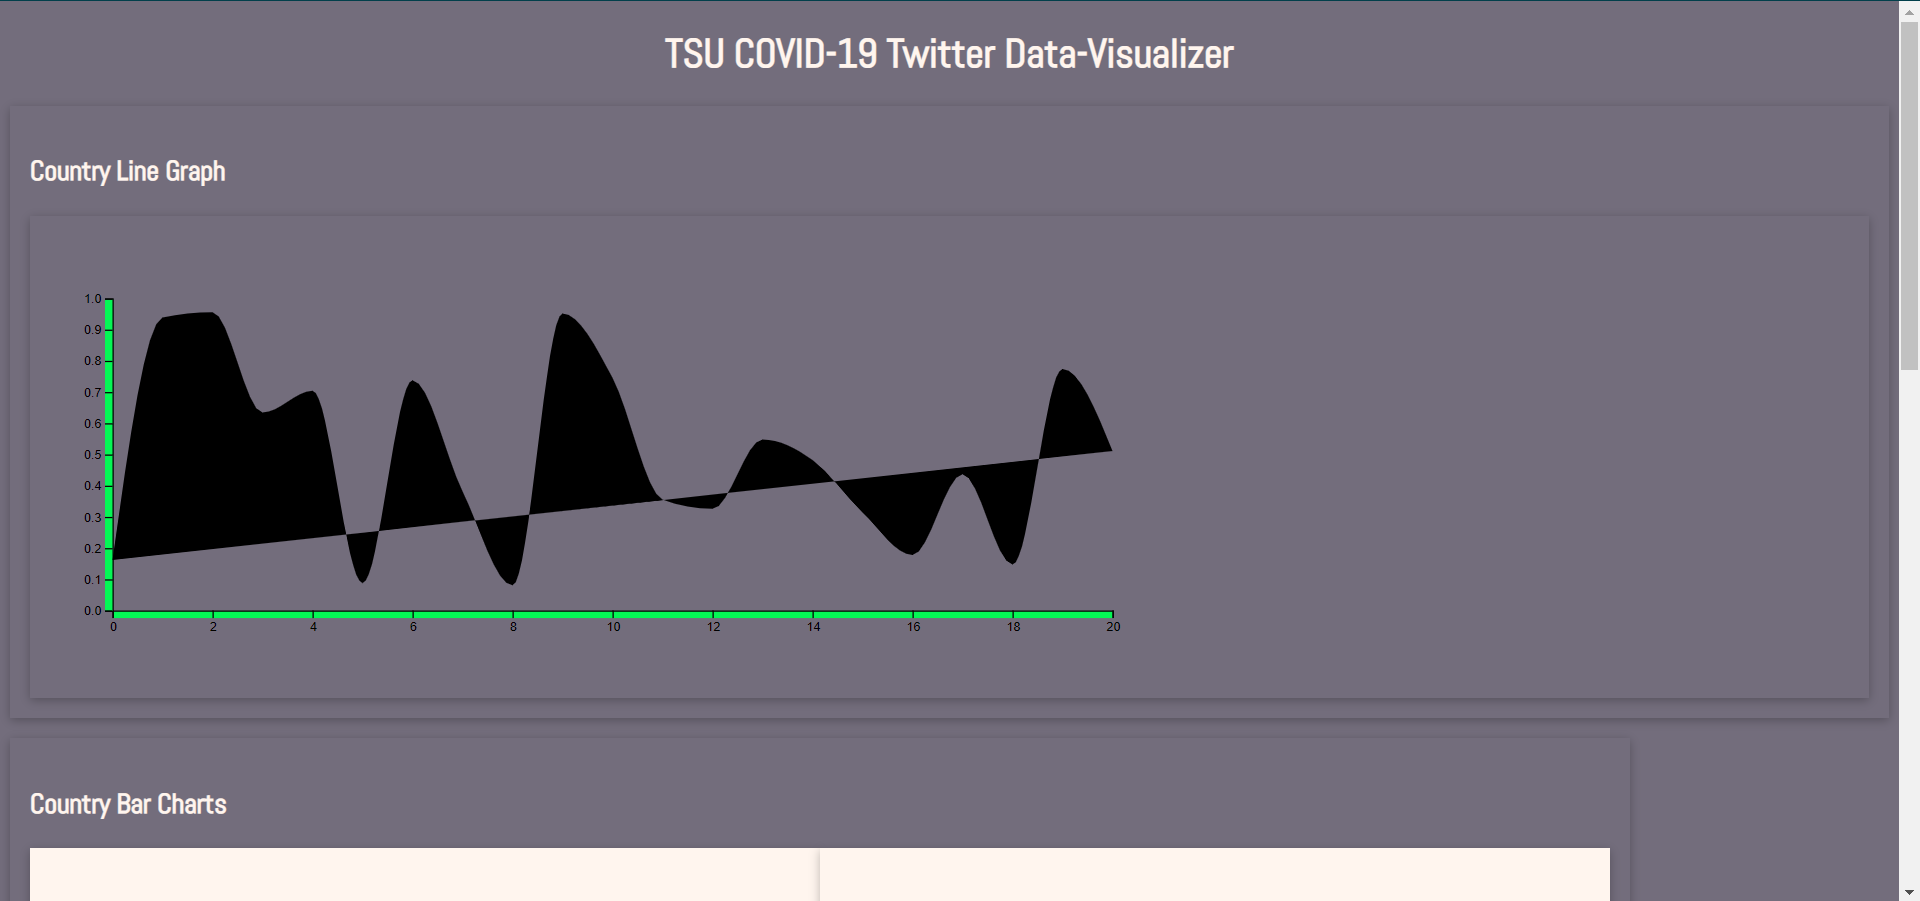
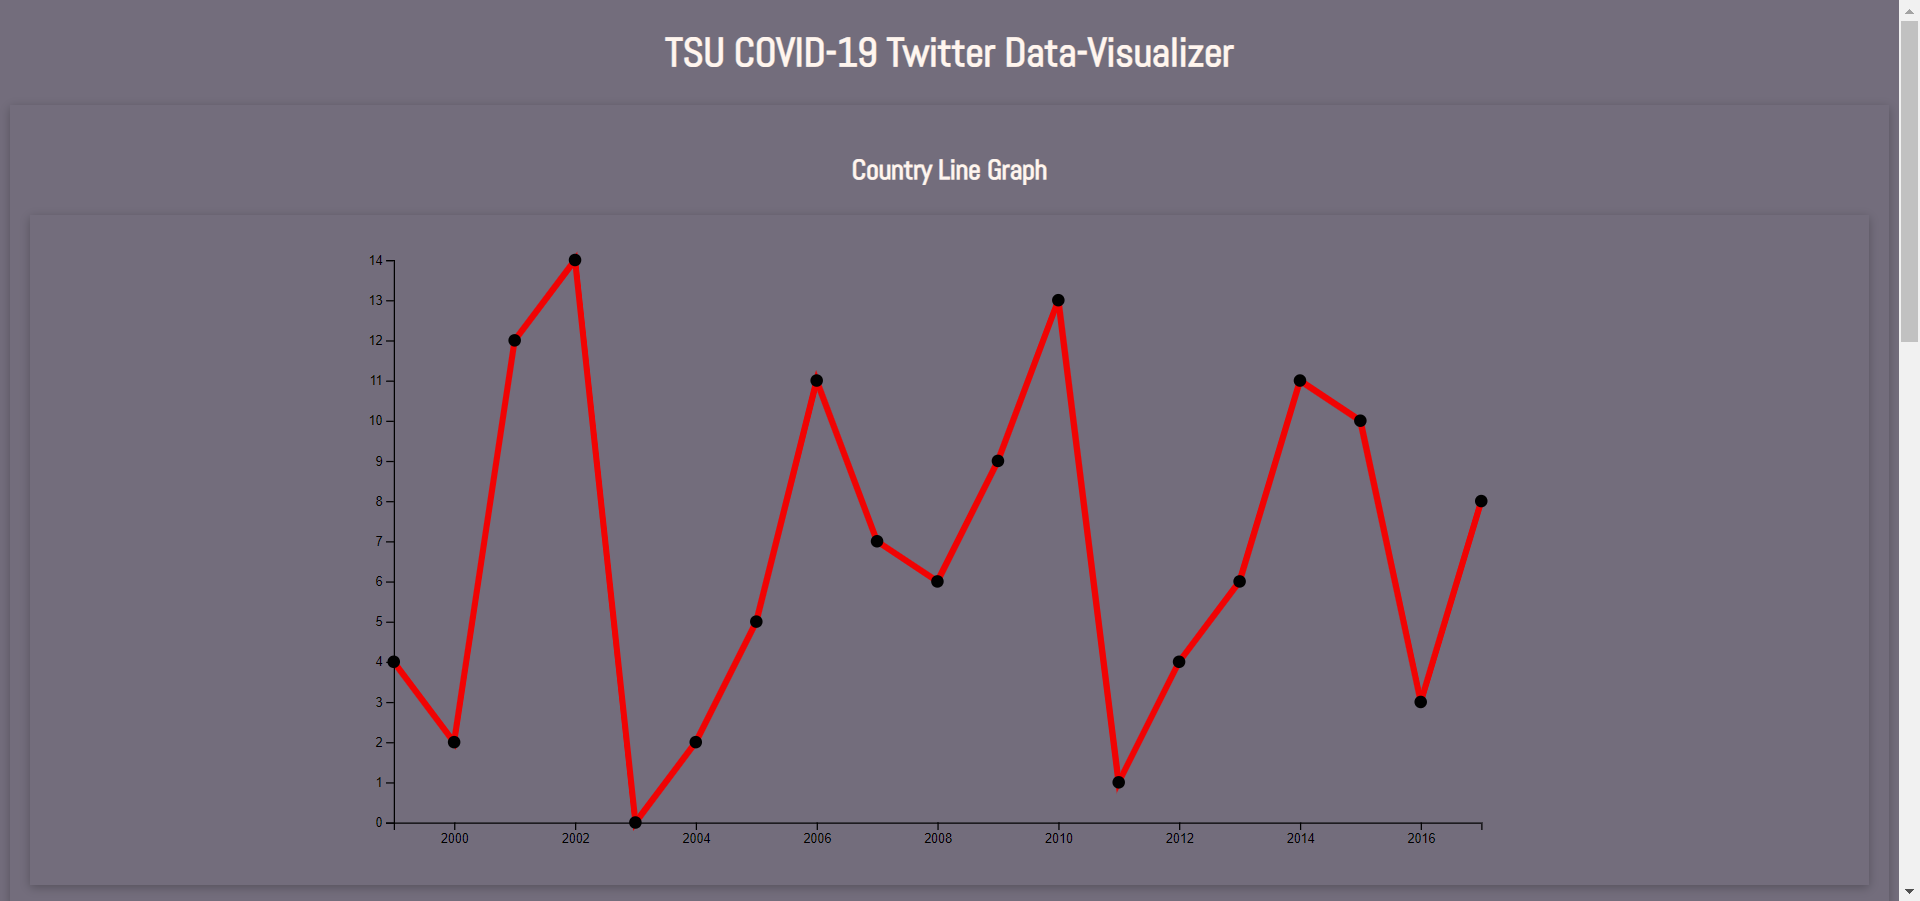
Made the graph use json data instead of random numbers.

diff --git a/index.js b/index.js
@@ -144,47 +144,76 @@ document.addEventListener('DOMContentLoaded', function(e) {
           .attr('x', 35)
           .attr('y', 15);
     
+    let margin = {top: 20, right: 40, bottom: 30, left: 50},
+        width = 960 - margin.left - margin.right,
+        height = 500 - margin.top - margin.bottom;
 
-    let n = 21;
+    let parseTime = d3.timeParse('%Y');
 
-    let margin = {top: 50, right: 50, bottom: 50, left: 50}
-      , width = 900 - margin.left - margin.right
-      , height = 350 - margin.top - margin.bottom;
-    
-    let xScale = d3.scaleLinear()
-            .domain([0, n-1])
-            .range([0, width]);
+    let x3 = d3.scaleTime().range([0, width]);
+    let y3 = d3.scaleLinear().range([height, 0]);
 
-    let yScale = d3.scaleLinear()
-            .domain([0, 1])
-            .range([height, 0]);
+    let valueline = d3.line()
+            .x(function(d) { return x3(d.date); })
+            .y(function(d) { return y3(d.value); });
 
-    let line = d3.line()
-            .x(function(d, i) {return xScale(i);})
-            .y(function(d) {return yScale(d.y);})
-            .curve(d3.curveMonotoneX)
-    
-    var dataset = d3.range(n).map(function(d) { return {"y": d3.randomUniform(1)() } })
-
-    let svg2 = d3.select('#lnchrt')
-            .append('svg')
-            .attr('width', width + margin.left + margin.right)
+    let svg2 = d3.select('#lnchrt').append('svg')
+            .attr('width', width + margin.left + margin.right + 400)
             .attr('height', height + margin.top + margin.bottom)
             .append('g')
-            .attr("transform", "translate(" + margin.left + "," + margin.top + ")");
-    
-    svg2.append('g')
-        .attr('class', 'x axis')
-        .attr("transform", "translate(0," + height + ")")
-        .call(d3.axisBottom(xScale));
+            .attr("transform", "translate(" + 275 + "," + margin.top + ")");
 
-    svg2.append("g")
-       .attr("class", "y axis")
-       .call(d3.axisLeft(yScale));
+    let label = d3.select('.label');
+
+    function draw(data, option) {
+        data = data[option];
+
+        data.forEach(function(d) {
+            d.date = parseTime(d.date);
+            d.value = +d.value;
+        });
+
+        data.sort(function(a, b) {
+            return a["date"]-b["date"];
+        });
+
+        x3.domain(d3.extent(data, function(d) {return d.date; }));
+        y3.domain([0, d3.max(data, function(d) {
+            return Math.max(d.value)
+        })]);
+
+        svg2.append('path')
+            .data([data])
+            .attr('class', 'line')
+            .attr('d', valueline);
+
+        svg2.append('g')
+            .attr("transform", "translate(0," + height + ")")
+            .call(d3.axisBottom(x3));
+        
+        svg2.append('g')
+            .call(d3.axisLeft(y3));
+        
+        svg2.selectAll("circle")
+		.data(data)
+		.enter()
+		.append("circle")
+		.attr("r", 5)
+	    .attr("cx", function(d) {
+	        return x3(d.date)
+	    })
+	    .attr("cy", function(d) {
+	        return y3(d.value)
+	    });
+    }
+
+    d3.json('test.json').then(function(data) {
+        draw(data, "linedata");
+    })
+    .catch(function(error) {
+        console.log(error)  
+    });
+
     
-    svg2.append('path')
-        .datum(dataset)
-        .attr('class', 'line')
-        .attr('d', line);
     });
 });

diff --git a/index.html b/index.html
@@ -14,8 +14,8 @@
 <body>
     <h1>TSU COVID-19 Twitter Data-Visualizer</h1>
      <div id="linegraph">
-        <div id="textcontainer">
-            <p>Country Line Graph</p>
+        <div id="ltextcontainer">
+            <p id="line">Country Line Graph</p>
         </div>
         <div id="lngraphcontainer">
             <div id="lnchrt"></div>

diff --git a/index.css b/index.css
@@ -6,6 +6,16 @@ body {
     background-color: rgb(115, 109, 124);
 }
 
+.line {
+  fill: none;
+  stroke: rgb(241, 3, 3);
+  stroke-width: 5px;
+}
+
+#ltextcontainer {
+    text-align: center;
+}
+
 #linegraph {
     box-shadow: 0 2px 8px rgba(0, 0, 0, 0.26);
     padding: 1rem;
